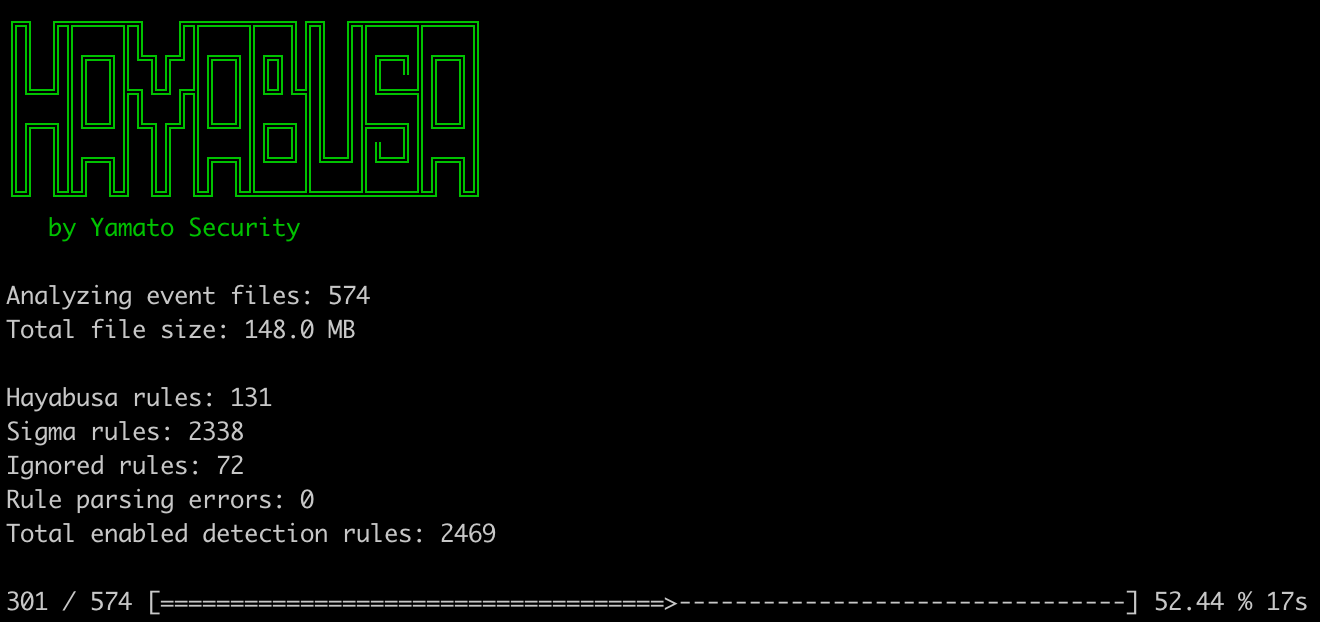
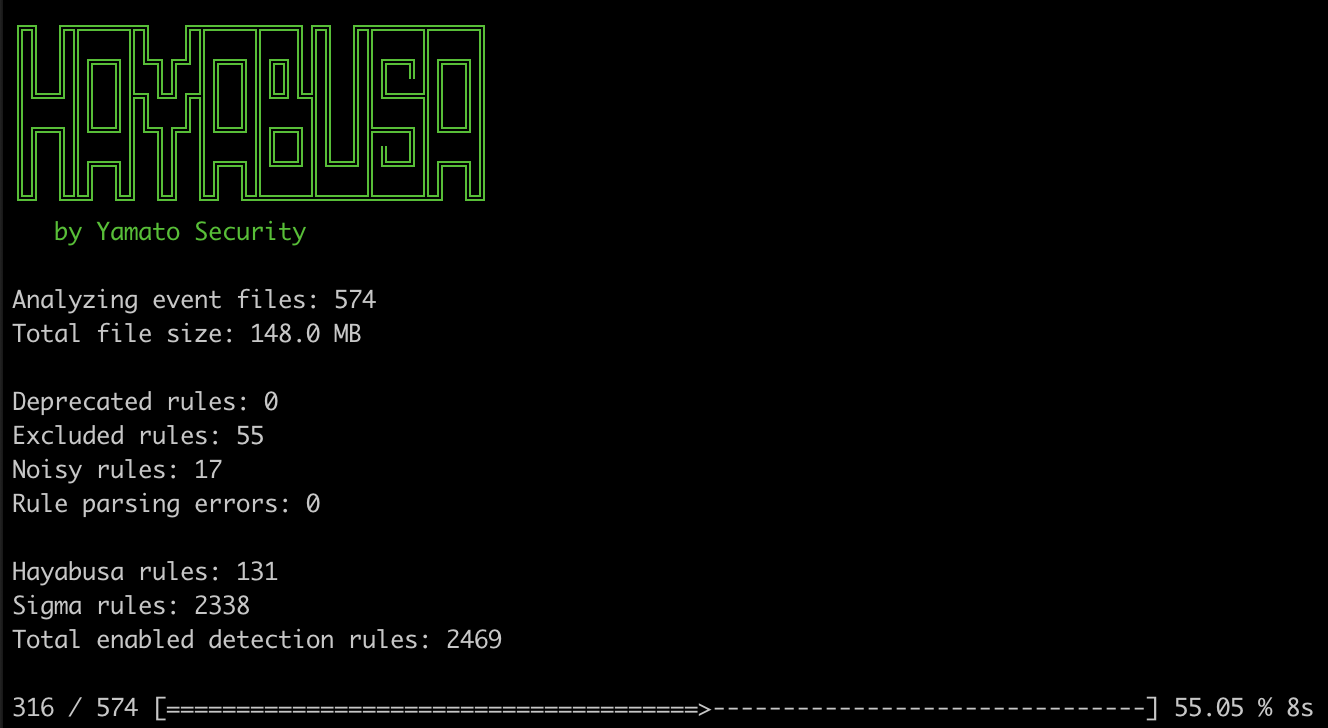
separate excluded and noisy rules count (#559)
* changed ignored rules display separately  exclude rules and noisy rules.

* fixed tests #556

* cargo fmt

* updated changelog #556

* change order

* sorted output order #556

* cargo fmt

* screenshot update

Changed region(s): [[0.0, 0.0305, 0.3727, 0.9164], [0.0, 0.9469, 0.9939, 1.0]]

diff --git a/src/yaml.rs b/src/yaml.rs
@@ -18,7 +18,9 @@ use yaml_rust::YamlLoader;
 pub struct ParseYaml {
     pub files: Vec<(String, yaml_rust::Yaml)>,
     pub rulecounter: HashMap<String, u128>,
-    pub ignorerule_count: u128,
+    pub exclude_rule_count: u128,
+    pub noisy_rule_count: u128,
+    pub deprecate_rule_count: u128,
     pub errorrule_count: u128,
 }
 
@@ -33,7 +35,9 @@ impl ParseYaml {
         ParseYaml {
             files: Vec::new(),
             rulecounter: HashMap::new(),
-            ignorerule_count: 0,
+            exclude_rule_count: 0,
+            noisy_rule_count: 0,
+            deprecate_rule_count: 0,
             errorrule_count: 0,
         }
     }
@@ -222,8 +226,12 @@ impl ParseYaml {
                         .get(&rule_id.unwrap_or("").to_string())
                     {
                         None => (),
-                        Some(_) => {
-                            self.ignorerule_count += 1;
+                        Some(v) => {
+                            if v.contains("exclude_rule") {
+                                self.exclude_rule_count += 1;
+                            } else {
+                                self.noisy_rule_count += 1;
+                            }
                             return Option::None;
                         }
                     }
@@ -259,9 +267,9 @@ impl ParseYaml {
                     .args
                     .is_present("enable-deprecated-rules")
                 {
-                    let rule_status = &yaml_doc["status"].as_str();
-                    if rule_status.is_some() && rule_status.unwrap() == "deprecated" {
-                        self.ignorerule_count += 1;
+                    let rule_status = &yaml_doc["status"].as_str().unwrap_or_default();
+                    if *rule_status == "deprecated" {
+                        self.deprecate_rule_count += 1;
                         return Option::None;
                     }
                 }
@@ -282,7 +290,7 @@ mod tests {
     use crate::filter;
     use crate::yaml;
     use crate::yaml::RuleExclude;
-    use hashbrown::HashSet;
+    use hashbrown::HashMap;
     use std::path::Path;
     use yaml_rust::YamlLoader;
 
@@ -306,7 +314,7 @@ mod tests {
 
         let mut yaml = yaml::ParseYaml::new();
         let exclude_ids = RuleExclude {
-            no_use_rule: HashSet::new(),
+            no_use_rule: HashMap::new(),
         };
         let _ = &yaml.read_dir("test_files/rules/yaml/", &String::default(), &exclude_ids);
         assert_ne!(yaml.files.len(), 0);
@@ -392,7 +400,16 @@ mod tests {
         let mut yaml = yaml::ParseYaml::new();
         let path = Path::new("test_files/rules/yaml");
         yaml.read_dir(path, "", &filter::exclude_ids()).unwrap();
-        assert_eq!(yaml.ignorerule_count, 10);
+        assert_eq!(yaml.exclude_rule_count, 5);
+    }
+    #[test]
+    fn test_all_noisy_rules_file() {
+        AlertMessage::create_error_log(ERROR_LOG_PATH.to_string());
+
+        let mut yaml = yaml::ParseYaml::new();
+        let path = Path::new("test_files/rules/yaml");
+        yaml.read_dir(path, "", &filter::exclude_ids()).unwrap();
+        assert_eq!(yaml.noisy_rule_count, 5);
     }
     #[test]
     fn test_none_exclude_rules_file() {
@@ -402,7 +419,7 @@ mod tests {
         let path = Path::new("test_files/rules/yaml");
         let exclude_ids = RuleExclude::default();
         yaml.read_dir(path, "", &exclude_ids).unwrap();
-        assert_eq!(yaml.ignorerule_count, 0);
+        assert_eq!(yaml.exclude_rule_count, 0);
     }
     #[test]
     fn test_exclude_deprecated_rules_file() {
@@ -410,6 +427,6 @@ mod tests {
         let path = Path::new("test_files/rules/deprecated");
         let exclude_ids = RuleExclude::default();
         yaml.read_dir(path, "", &exclude_ids).unwrap();
-        assert_eq!(yaml.ignorerule_count, 1);
+        assert_eq!(yaml.deprecate_rule_count, 1);
     }
 }

diff --git a/src/detections/detection.rs b/src/detections/detection.rs
@@ -129,7 +129,9 @@ impl Detection {
             Detection::print_rule_load_info(
                 &rulefile_loader.rulecounter,
                 &parseerror_count,
-                &rulefile_loader.ignorerule_count,
+                &rulefile_loader.exclude_rule_count,
+                &rulefile_loader.noisy_rule_count,
+                &rulefile_loader.deprecate_rule_count,
             );
         }
         ret
@@ -354,22 +356,26 @@ impl Detection {
     pub fn print_rule_load_info(
         rc: &HashMap<String, u128>,
         parseerror_count: &u128,
-        ignore_count: &u128,
+        exclude_count: &u128,
+        noisy_count: &u128,
+        deprecate_count: &u128,
     ) {
         if *STATISTICS_FLAG {
             return;
         }
-        let mut total = parseerror_count + ignore_count;
-        rc.into_iter().for_each(|(key, value)| {
-            println!("{} rules: {}", key, value);
-            total += value;
-        });
-        println!("Ignored rules: {}", ignore_count);
+        println!("Deprecated rules: {}", deprecate_count);
+        println!("Excluded rules: {}", exclude_count);
+        println!("Noisy rules: {}", noisy_count);
         println!("Rule parsing errors: {}", parseerror_count);
-        println!(
-            "Total enabled detection rules: {}",
-            total - ignore_count - parseerror_count
-        );
+        println!();
+        let mut sorted_rc: Vec<(&String, &u128)> = rc.iter().collect();
+        sorted_rc.sort_by(|a, b| a.0.cmp(b.0));
+        let mut enable_total = 0;
+        sorted_rc.into_iter().for_each(|(key, value)| {
+            println!("{} rules: {}", key, value);
+            enable_total += value;
+        });
+        println!("Total enabled detection rules: {}", enable_total);
         println!();
     }
 }

diff --git a/src/filter.rs b/src/filter.rs
@@ -2,7 +2,7 @@ use crate::detections::configs;
 use crate::detections::print::AlertMessage;
 use crate::detections::print::ERROR_LOG_STACK;
 use crate::detections::print::QUIET_ERRORS_FLAG;
-use hashbrown::HashSet;
+use hashbrown::HashMap;
 use regex::Regex;
 use std::fs::File;
 use std::io::{BufRead, BufReader};
@@ -15,13 +15,13 @@ pub struct DataFilterRule {
 
 #[derive(Clone, Debug)]
 pub struct RuleExclude {
-    pub no_use_rule: HashSet<String>,
+    pub no_use_rule: HashMap<String, String>,
 }
 
 impl RuleExclude {
     pub fn default() -> RuleExclude {
         RuleExclude {
-            no_use_rule: HashSet::new(),
+            no_use_rule: HashMap::new(),
         }
     }
 }
@@ -73,7 +73,7 @@ impl RuleExclude {
                 // 空行は無視する。IDの検証
                 continue;
             }
-            self.no_use_rule.insert(v);
+            self.no_use_rule.insert(v, filename.to_owned());
         }
     }
 }

diff --git a/CHANGELOG-Japanese.md b/CHANGELOG-Japanese.md
@@ -17,6 +17,7 @@
 - evtxファイルのファイルサイズの合計を出力するようにした。(#540) (@hitenkoku)
 - ロゴの色を変更した (#537) (@hitenkoku)
 - Channelの列にchannel_abbrevations.txtに記載されていないチャンネルも表示するようにした。(#553) (@hitenkoku)
+- `Ignored rules`として集計されていた`Exclude rules`、`Noisy rules`、`Deprecated rules`に分けて表示するようにした。 (#556) (@hitenkoku)
 
 **バグ修正:**
 

diff --git a/CHANGELOG.md b/CHANGELOG.md
@@ -17,6 +17,7 @@
 - Display total evtx file size. (#540) (@hitenkoku)
 - Changed logo color. (#537) (@hitenkoku)
 - Display the original `Channel` name when not specified in `channel_abbrevations.txt`. (#553) (@hitenkoku)
+- Display separately `Ignored rules` to `Exclude rules`, `Noisy rules`, and `Deprecated rules`. (#556) (@hitenkoku)
 
 **Bug Fixes:**
 
